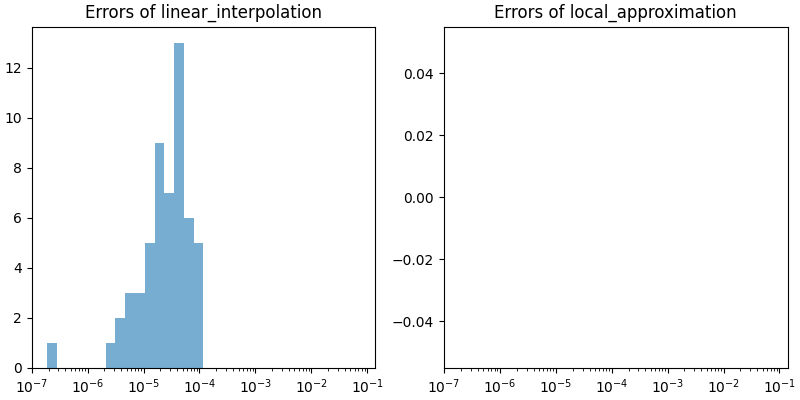
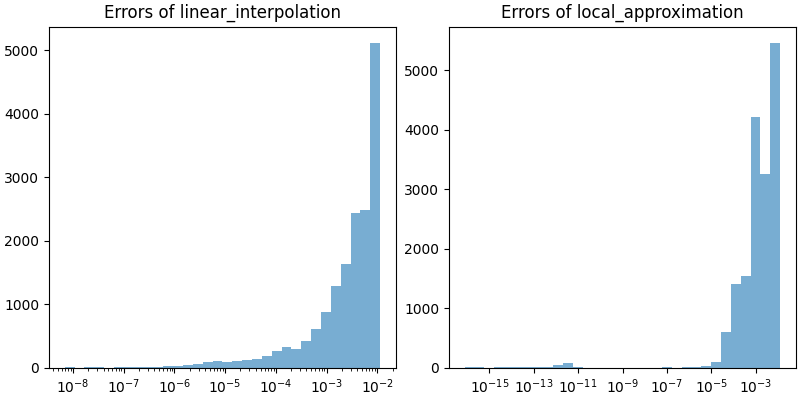
10/10/25 code changes

diff --git a/imbal/regression/generate_weights.py b/imbal/regression/generate_weights.py
@@ -9,7 +9,7 @@ def get_densities(
         optimization=None,
         distribution_samples=None,
         k=None,
-        precision=1e-4,
+        atol=1e-4,
         padding_factor=0.01,
         return_optimization=False
 ):
@@ -85,10 +85,12 @@ def get_densities(
             containing the list of x and y coordinates used to generate the optimized KDE. Mainly
             used for visualization.
         padding_factor: Optional, default :code:`0.01`. Used to add a small padding to
-            the data range used for binning. This padding should be specified as a percentage
-            of the range of the data labels. This padding allows for a more graceful
-            handling of scenarios where the minimum or maximum of the labels is the most
-            frequent value in the labels.
+            the data range used for binning for the histogram. There are some instances where many datapoints in
+            a dataset fall on the maximum or minimum. When viewed visually, the peak of the found KDE curve may
+            appear to be on the edge, or slightly outside, of its corresponding bin (due to limited
+            pixel resolution when plotting), which is undesirable for visual comparison. By padding, we can slightly increase
+            the width of the histogram bins, shifting their bounds and allowing these peaks to appear
+            inside the bins instead.
 
     Returns:
         A NumPy array of densities, arranged as a column vector
@@ -120,7 +122,7 @@ def get_densities(
             padding_factor
         )
     elif optimization == 'local_approximation':
-        points, densities = _local_kde_optimization(labels, kde, k, precision)
+        points, densities = _local_kde_optimization(labels, kde, k, atol)
     else:
         raise ValueError("'optimization' must be either 'linear_interpolation', 'local_approximation', or None")
     approx = (points, densities)
@@ -176,36 +178,75 @@ def _local_kde_optimization(
         labels,
         kde,
         k,
-        precision
+        atol
 ):
-    labels = np.sort(labels.reshape(-1, ))
+    # sort_indices = np.argsort(labels)
+    # sorted_labels = labels[sort_indices].reshape(-1,)
+    # inverse_sort = np.argsort(sort_indices)
+    # bandwidth = kde.bandwidth_
+    # inverse_gaussian = lambda x: sqrt(-2 * log(x * (bandwidth * sqrt(2 * pi)))) * bandwidth
+    # atol_by_n = atol / labels.shape[0]
+    # delta = inverse_gaussian(atol_by_n)
+    #
+    #
+    # if k is None:
+    #     k = max(2, round(10*log(labels.shape[0])))
+    #
+    # sample_densities = []
+    # low_index = 0
+    # high_index = 0
+    # for label in sorted_labels:
+    #     while sorted_labels[low_index] < label - delta:
+    #         low_index += 1
+    #     while high_index < sorted_labels.shape[0] and sorted_labels[high_index] < label + delta:
+    #         high_index += 1
+    #
+    #     if high_index - low_index > k:
+    #         stride = ceil((high_index - low_index) / k)
+    #         samples = sorted_labels[low_index:high_index:stride]
+    #     else:
+    #         samples = sorted_labels[low_index:high_index]
+    #
+    #     current_kde = KernelDensity(bandwidth=bandwidth, atol=atol_by_n)
+    #     current_kde.fit(samples.reshape(-1,1))
+    #     sample_densities.append(np.exp(current_kde.score_samples(np.array([[label]]))) * (high_index - low_index) / labels.shape[0])
+    # sample_densities = np.array(sample_densities).reshape(-1,)
+    # return sorted_labels[inverse_sort], sample_densities[inverse_sort]
+
+    sort_indices = np.argsort(labels)
+    sorted_labels = labels[sort_indices].reshape(-1,)
+    inverse_sort = np.argsort(sort_indices)
     bandwidth = kde.bandwidth_
     inverse_gaussian = lambda x: sqrt(-2 * log(x * (bandwidth * sqrt(2 * pi)))) * bandwidth
-    delta = inverse_gaussian(precision / labels.shape[0])
+    atol_by_n = atol / labels.shape[0]
+    delta = inverse_gaussian(atol_by_n)
+
+
     if k is None:
         k = max(2, round(10*log(labels.shape[0])))
 
     sample_densities = []
-    labels = labels.reshape(-1,)
     low_index = 0
     high_index = 0
-    for label in labels:
-        while labels[low_index] < label - delta:
+    for label in sorted_labels:
+        while sorted_labels[low_index] < label - delta:
             low_index += 1
-        while high_index < labels.shape[0] and labels[high_index] < label + delta:
+        while high_index < sorted_labels.shape[0] and sorted_labels[high_index] < label + delta:
             high_index += 1
 
         if high_index - low_index > k:
             stride = ceil((high_index - low_index) / k)
-            samples = labels[low_index:high_index:stride]
+            samples = sorted_labels[low_index:high_index:stride]
         else:
-            samples = labels[low_index:high_index]
+            samples = sorted_labels[low_index:high_index]
 
-        current_kde = KernelDensity(bandwidth=bandwidth)
-        current_kde.fit(samples.reshape(-1,1))
-        sample_densities.append(np.exp(current_kde.score_samples(np.array([[label]]))) * (high_index - low_index) / labels.shape[0])
+        def mini_kde(value, data):
+            u = (data - value) / bandwidth
+            return np.sum(np.exp(-0.5 * u ** 2) / np.sqrt(2 * np.pi)) / (data.shape[0] * bandwidth)
+
+        sample_densities.append(mini_kde(label, samples) * (high_index - low_index) / labels.shape[0])
     sample_densities = np.array(sample_densities).reshape(-1,)
-    return labels, sample_densities
+    return sorted_labels[inverse_sort], sample_densities[inverse_sort]
 
 def _linearly_interpolate_kde(
         labels,
@@ -213,8 +254,9 @@ def _linearly_interpolate_kde(
         distribution_samples,
         padding_factor
 ):
-    labels = np.sort(labels.reshape(-1, ))
-    label_min, label_max, _ = get_label_bin_bounds(labels, 1, padding_factor)
+    sort_indices = np.argsort(labels)
+    sorted_labels = labels[sort_indices]
+    label_min, label_max, _ = get_label_bin_bounds(sorted_labels, 1, padding_factor)
     step = (label_max - label_min) / distribution_samples
     sample_points = np.array([label_min + i*step for i in range(distribution_samples + 1)])
     interpolate_densities = np.exp(kde.score_samples(sample_points.reshape(-1,1)).reshape(-1,))

diff --git a/imbal/regression/kde.py b/imbal/regression/kde.py
@@ -47,14 +47,12 @@ def fit_kde(
             the allowed maximum heuristic value before stopping in instances where the heuristic
             approaches 0. Prevents infinite iteration approaching 0.
         padding_factor: Optional, default :code:`0.01`. Used to add a small padding to
-            the data range used for binning. This padding should be specified as a percentage
-            of the range of the data labels. This padding allows for a more graceful
-            handling of scenarios where the minimum or maximum of the labels is the most
-            frequent value in the labels. There are some instances where many datapoints in a dataset fall on the maximum or minimum.
-            When viewed visually, the resulting histogram may appear to be misaligned with the
-            approximated KDE curve. By padding, we can slightly increase the width of the histogram
-            bins, making it appear as though the extremes have been moved away from the edges of the
-            histogram.
+            the data range used for binning for the histogram. There are some instances where many datapoints in
+            a dataset fall on the maximum or minimum. When viewed visually, the peak of the found KDE curve may
+            appear to be on the edge, or slightly outside, of its corresponding bin (due to limited
+            pixel resolution when plotting), which is undesirable for visual comparison. By padding, we can slightly increase
+            the width of the histogram bins, shifting their bounds and allowing these peaks to appear
+            inside the bins instead.
 
     Returns:
         A scikit-learn KernelDenity object.
@@ -117,14 +115,12 @@ def plot_kde(
             should be used for the histogram-based KDE approximation.
             If set, overrides :code:`average_samples_per_bin`.
         padding_factor: Optional, default :code:`0.01`. Used to add a small padding to
-            the data range used for binning. This padding should be specified as a percentage
-            of the range of the data labels. This padding allows for a more graceful
-            handling of scenarios where the minimum or maximum of the labels is the most
-            frequent value in the labels. There are some instances where many datapoints in a dataset fall on the maximum or minimum.
-            When viewed visually, the resulting histogram may appear to be misaligned with the
-            approximated KDE curve. By padding, we can slightly increase the width of the histogram
-            bins, making it appear as though the extremes have been moved away from the edges of the
-            histogram.
+            the data range used for binning for the histogram. There are some instances where many datapoints in
+            a dataset fall on the maximum or minimum. When viewed visually, the peak of the found KDE curve may
+            appear to be on the edge, or slightly outside, of its corresponding bin (due to limited
+            pixel resolution when plotting), which is undesirable for visual comparison. By padding, we can slightly increase
+            the width of the histogram bins, shifting their bounds and allowing these peaks to appear
+            inside the bins instead.
         approximation: Optional, default :code:`None`. A tuple containing a list of x and y
             pairs, which will be plotted over the KDE curve. Used to show how well approximations
             of KDE perform.

diff --git a/10-2025/10-8-25/reweighting_test.py b/10-2025/10-8-25/reweighting_test.py
@@ -19,16 +19,16 @@ def read_csv_to_list_of_lists(filepath):
 # data = data[1:1000, 2].astype(np.float64)
 # print(data)
 
-PATH_START = '/mnt/c/Users/tommy/Desktop/Repos/dr-chan-work-demo'
+PATH_START = '/mnt/c/Users/tommy/PycharmProjects/DrChanWorkPlayground'
 print(os.getcwd())
 
 # data = np.array(read_csv_to_list_of_lists(f'{PATH_START}/CISIR-data/SARCOS/sarcos_inv_training.csv'))
 # print(data.shape)
 # data = data[1:, -1].astype(float)
 
-# data = np.array(read_csv_to_list_of_lists(f'{PATH_START}/CISIR-data/SEP-C/sep_10mev_training.csv'))
-# print(data.shape)
-# data = data[1:, 22].astype(float)
+data = np.array(read_csv_to_list_of_lists(f'{PATH_START}/CISIR-data/SEP-C/sep_10mev_training.csv'))
+print(data.shape)
+data = data[1:, 22].astype(float)
 
 data = np.array(read_csv_to_list_of_lists(f'{PATH_START}/CISIR-data/SEP-EC/training/sep_event_1_filled_ie_trim.csv'))[1:]
 for i in range(43):
@@ -78,7 +78,7 @@ loc_approx_densities, loc_approx_approx = imbal.regression.get_densities(
     distribution_samples=10*BINS,
     optimization='local_approximation',
     k=BINS*10,
-    precision=1e-6,
+    atol=1e-4,
     return_optimization=True
 )
 end=time.time()
@@ -94,15 +94,18 @@ ax[0].set_xscale('log')
 ax[0].set_title('Errors of linear_interpolation')
 ax[0].set_ylim(auto=True)
 loc_approx_errors = np.abs(loc_approx_densities - densities).reshape(-1)
+bins = np.logspace(np.log10(min(loc_approx_errors)), np.log10(max(loc_approx_errors)), num_bins + 1)
 ax[1].hist(loc_approx_errors, bins=bins, alpha=0.6)
 ax[1].set_xscale('log')
 ax[1].set_title('Errors of local_approximation')
 ax[1].set_ylim(auto=True)
-plt.savefig('sep-ec-optimization-error-hists.png')
+plt.savefig('sep-c-optimization-error-hists.png')
 plt.show()
 
 print('lin_int average error:', np.mean(lin_errors))
 print('loc_approx average error:', np.mean(loc_approx_errors))
+print('lin_int average % error:', np.mean(lin_errors / densities * 100))
+print('loc_approx average % error:', np.mean(loc_approx_errors / densities * 100))
 
 ###################### OR ########################
 

diff --git a/Dr. Chan Research Work Notes/Notes - 10-25.md b/Dr. Chan Research Work Notes/Notes - 10-25.md
@@ -126,10 +126,39 @@
 
 # 10/8/25
 ## Tasks:
-- "misaligned" in padding explanation to "peak of KDE may appear to be on the edge, or slightly outside, of its corresponding histogram bin (due to limited pixel resolution when plotting), which is undesirable for visual comparison. Padding the minimum and maximum causes a slight shift to the bin bounds, allowing the peaks at these extremes to appear inside the bins".
-	- Add "binning for the histogram" first sentence
-	- Remove "gracefully" part
-- Add MAPE column
-- `KernelDensity` with `atol` vs `numpy` manual implementation vs current
-- Change `precision` to `atol`
-- 
+- "misaligned" in padding explanation to "peak of KDE may appear to be on the edge, or slightly outside, of its corresponding histogram bin (due to limited pixel resolution when plotting), which is undesirable for visual comparison. Padding the minimum and maximum causes a slight shift to the bin bounds, allowing the peaks at these extremes to appear inside the bins". $\checkmark$
+	- Add "binning for the histogram" first sentence $\checkmark$
+	- Remove "gracefully" part $\checkmark$
+- Add MAPE column $\checkmark$
+- `KernelDensity` with `atol` vs `numpy` manual implementation vs current $\checkmark$
+	- `scikit-learn`'s `atol` parameter had no change in performance. Manual implementation of KDE kernel saw a significant leap in performance, producing the same KDE values
+- Change `precision` to `atol` $\checkmark$ 
+
+
+# 10/10/25
+## Notes:
+
+#### SARCOS (44485 data points)
+![[sarcos-optimization-error-hists 1.png|600]]
+
+| KDE Optimization Method                     | Compute Time (sec) | MAE            | MAPE      |
+| ------------------------------------------- | ------------------ | -------------- | --------- |
+| Regular                                     | 44.05              | n/a            | n/a       |
+| Linear Approximation (320 bins)             | 0.25               | $1.88*10^{-4}$ | $0.152\%$ |
+| Local Approximation (k=320, precision=1e-4) | 0.28               | $2.48*10^{-3}$ | $0.153\%$ |
+#### SEP-C (1531 data points)
+![[sep-c-optimization-error-hists 1.png|600]]
+
+| KDE Optimization Method                     | Compute Time (sec) | MAE             | MAPE     |
+| ------------------------------------------- | ------------------ | --------------- | -------- |
+| Regular                                     | 0.057              | n/a             | n/a      |
+| Linear Approximation (320 bins)             | 0.0029             | $2.00*10^{-2}$  | $0.55\%$ |
+| Local Approximation (k=320, precision=1e-4) | 0.012              | $4.56*10^{-13}$ | ~$0\%$   |
+#### SEC-EC (16720 data points)
+![[sep-ec-optimization-error-hists 1.png|600]]
+
+| KDE Optimization Method                     | Compute Time (sec) | MAE            | MAPE      |
+| ------------------------------------------- | ------------------ | -------------- | --------- |
+| Regular                                     | 7.33               | n/a            | n/a       |
+| Linear Approximation (320 bins)             | 0.064              | $4.81*10^{-3}$ | $0.156\%$ |
+| Local Approximation (k=320, precision=1e-4) | 0.014              | $4.0*10^{-3}$  | $0.140\%$ |
